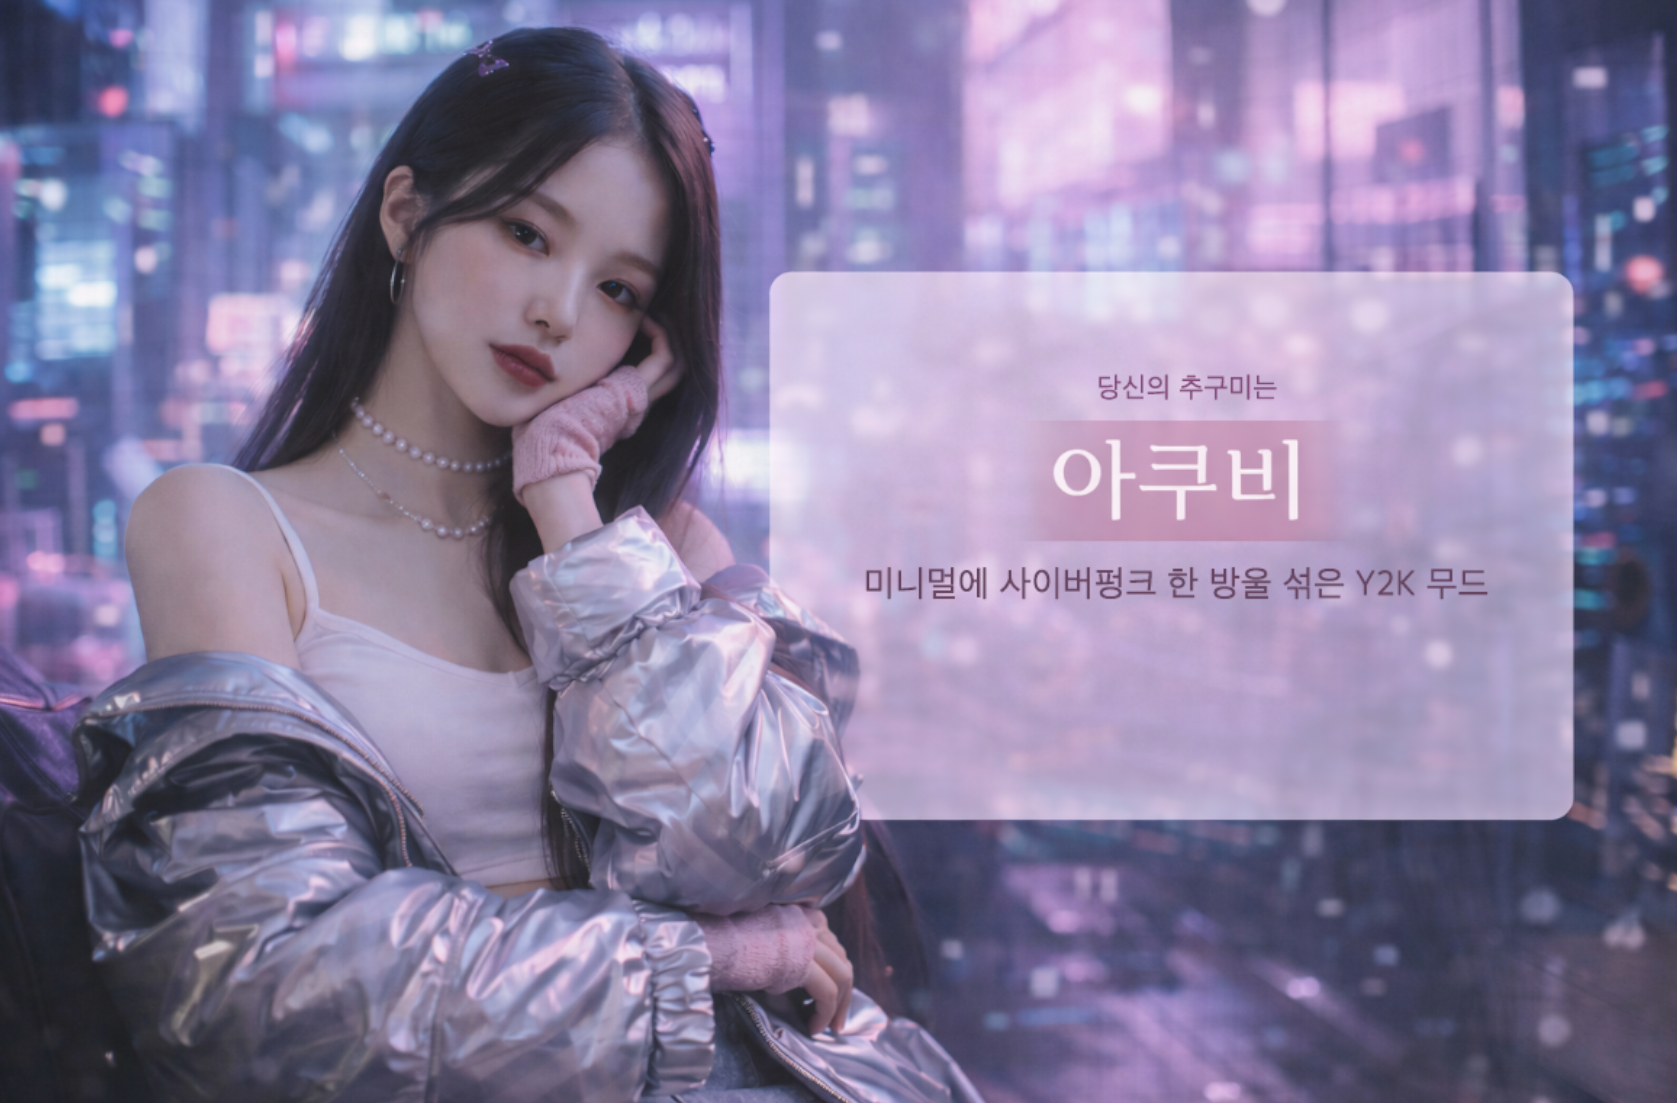
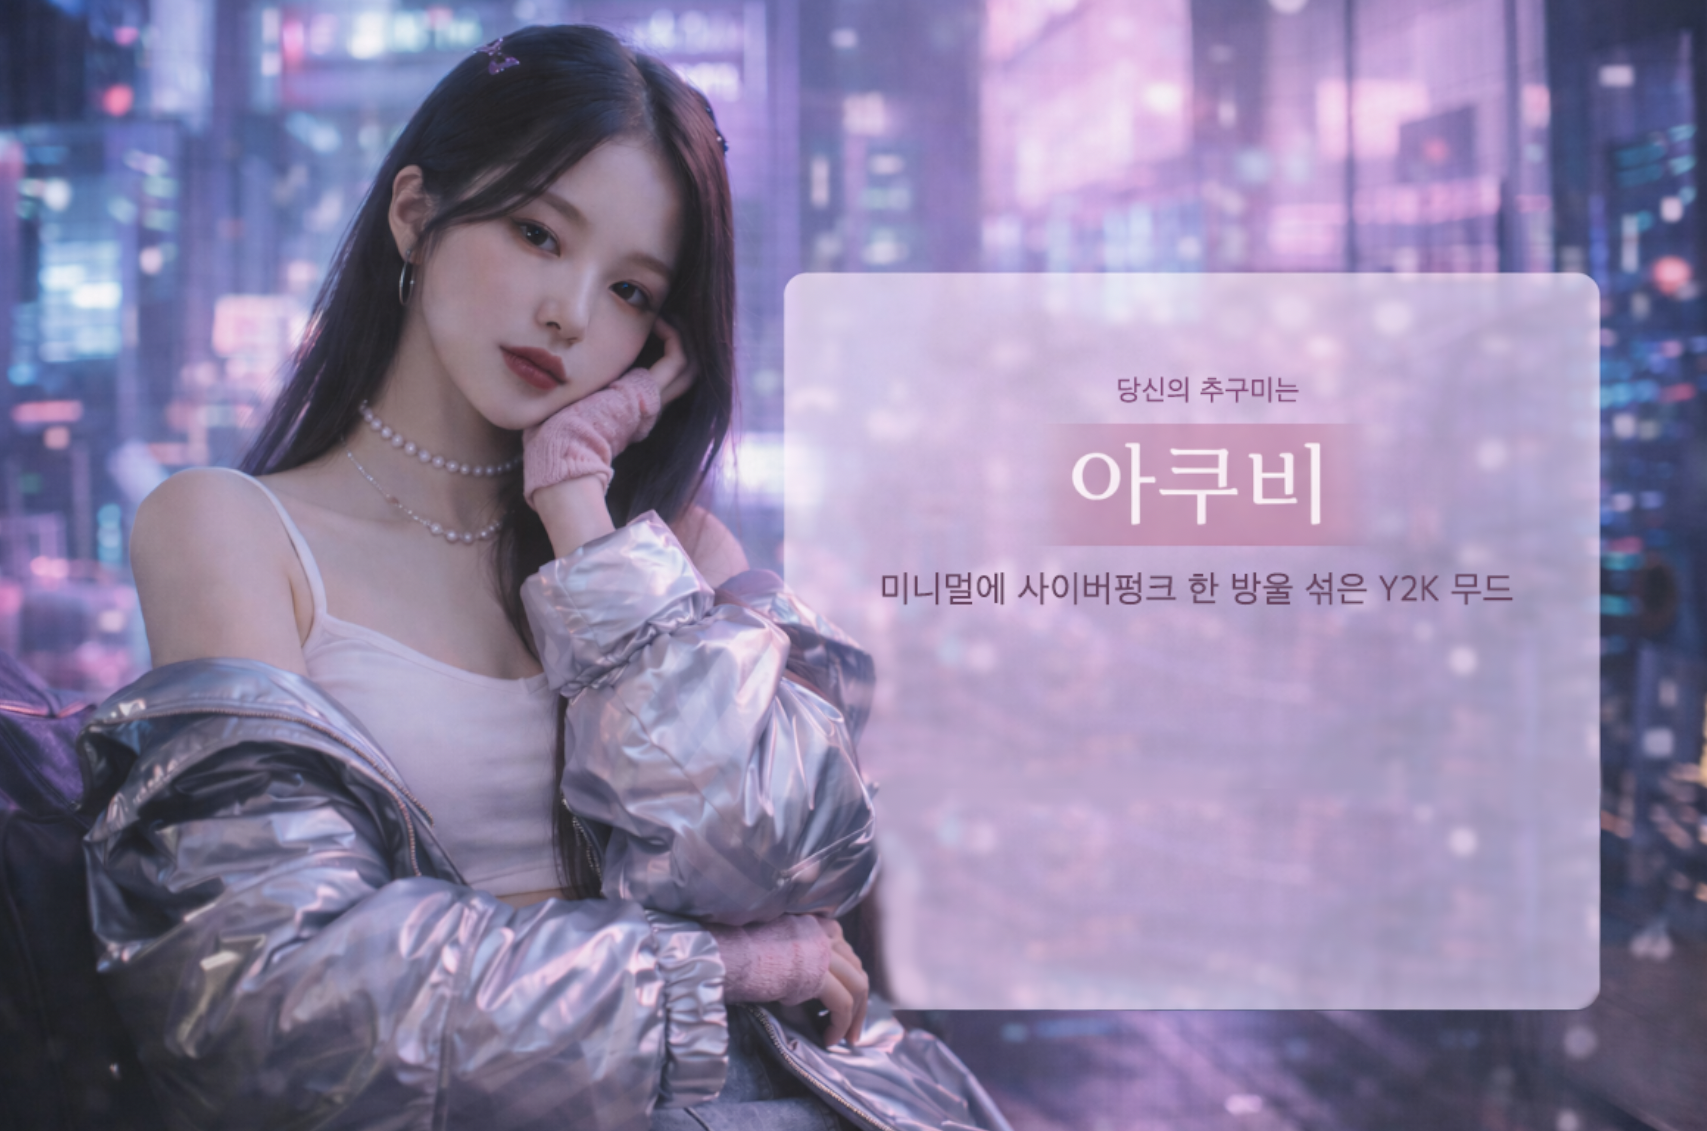
modify_0201

diff --git a/app/result/page.tsx b/app/result/page.tsx
@@ -264,26 +264,24 @@ function ResultContent() {
       {/* 모바일 전용 스타일 - 기존 PC 코드는 수정하지 않음 */}
       <style dangerouslySetInnerHTML={{__html: `
         @media screen and (max-width: 768px) {
-          /* 이미지 스타일일 때 버튼과 아이콘 컨테이너 위치 조정 */
+          /* 이미지 스타일일 때 버튼과 아이콘 컨테이너 위치 조정 - 우측 하단 통일 */
           /* 이미지 다음에 오는 absolute 요소 선택 (일반 스타일의 max-w-4xl은 제외) */
           main div.relative:not([class*="max-w-4xl"]) img ~ div.absolute {
-            left: 70% !important;
-            top: 70% !important;
+            left: 66% !important;
+            top: 73% !important;
             transform: translate(-50%, -50%) !important;
             gap: 1rem !important;
           }
           
-          main div.relative:not([class*="max-w-4xl"]) img ~ div.absolute[style*="left: 55%"] {
-            left: 75% !important;
-            top: 75% !important;
+          /* 클린걸 스타일만 이전 위치로 */
+          main div.relative:not([class*="max-w-4xl"]) img[src*="cleangirl"] ~ div.absolute {
+            left: 55% !important;
+            top: 73% !important;
           }
           
-          main div.relative:not([class*="max-w-4xl"]) img ~ div.absolute[style*="top: 65%"] {
+          /* 스트릿보이 스타일만 3% 위로 */
+          main div.relative:not([class*="max-w-4xl"]) img[src*="streetboy"] ~ div.absolute {
             top: 70% !important;
-          }
-          
-          main div.relative:not([class*="max-w-4xl"]) img ~ div.absolute[style*="top: 66%"] {
-            top: 71% !important;
           }
           
           /* 홈으로 돌아가기 버튼 크기 조정 */
@@ -307,24 +305,22 @@ function ResultContent() {
         
         /* 아이패드 전용 스타일 - PC와 모바일은 건드리지 않음 */
         @media screen and (min-width: 769px) and (max-width: 1024px) {
-          /* 이미지 스타일일 때 버튼과 아이콘 컨테이너 위치 조정 - 오른쪽으로 5% 더 이동 */
+          /* 이미지 스타일일 때 버튼과 아이콘 컨테이너 위치 조정 - 우측 하단 통일 */
           main div.relative:not([class*="max-w-4xl"]) img ~ div.absolute {
-            left: 70% !important;
-            top: 66% !important;
+            left: 66% !important;
+            top: 73% !important;
             transform: translate(-50%, -50%) !important;
           }
           
-          main div.relative:not([class*="max-w-4xl"]) img ~ div.absolute[style*="left: 55%"] {
-            left: 65% !important;
-            top: 71% !important;
+          /* 클린걸 스타일만 이전 위치로 */
+          main div.relative:not([class*="max-w-4xl"]) img[src*="cleangirl"] ~ div.absolute {
+            left: 55% !important;
+            top: 73% !important;
           }
           
-          main div.relative:not([class*="max-w-4xl"]) img ~ div.absolute[style*="top: 65%"] {
-            top: 66% !important;
-          }
-          
-          main div.relative:not([class*="max-w-4xl"]) img ~ div.absolute[style*="top: 66%"] {
-            top: 67% !important;
+          /* 스트릿보이 스타일만 3% 위로 */
+          main div.relative:not([class*="max-w-4xl"]) img[src*="streetboy"] ~ div.absolute {
+            top: 70% !important;
           }
         }
       `}} />
@@ -370,12 +366,12 @@ function ResultContent() {
                   className="w-full max-w-4xl mx-auto h-auto object-contain"
                 />
                 
-                {/* 홈으로 돌아가기 버튼과 스크롤 아이콘 - 절대 위치 (사진 중앙 기준 약간 오른쪽, 조금 아래) */}
+                {/* 홈으로 돌아가기 버튼과 스크롤 아이콘 - 절대 위치 (사진 우측 하단, 통일된 위치) */}
                 <div 
                   className="absolute flex flex-col items-center gap-4"
                   style={{
-                    left: style === 'cleanGirl' ? '55%' : '60%',
-                    top: style === 'vampire' ? '65%' : style === 'acubi' ? '66%' : style === 'cleanGirl' ? '73%' : '63%',
+                    left: style === 'cleanGirl' ? '55%' : '61%',
+                    top: style === 'cleanGirl' ? '73%' : style === 'streetBoy' ? '70%' : '73%',
                     transform: 'translate(-50%, -50%)',
                   }}
                 >
